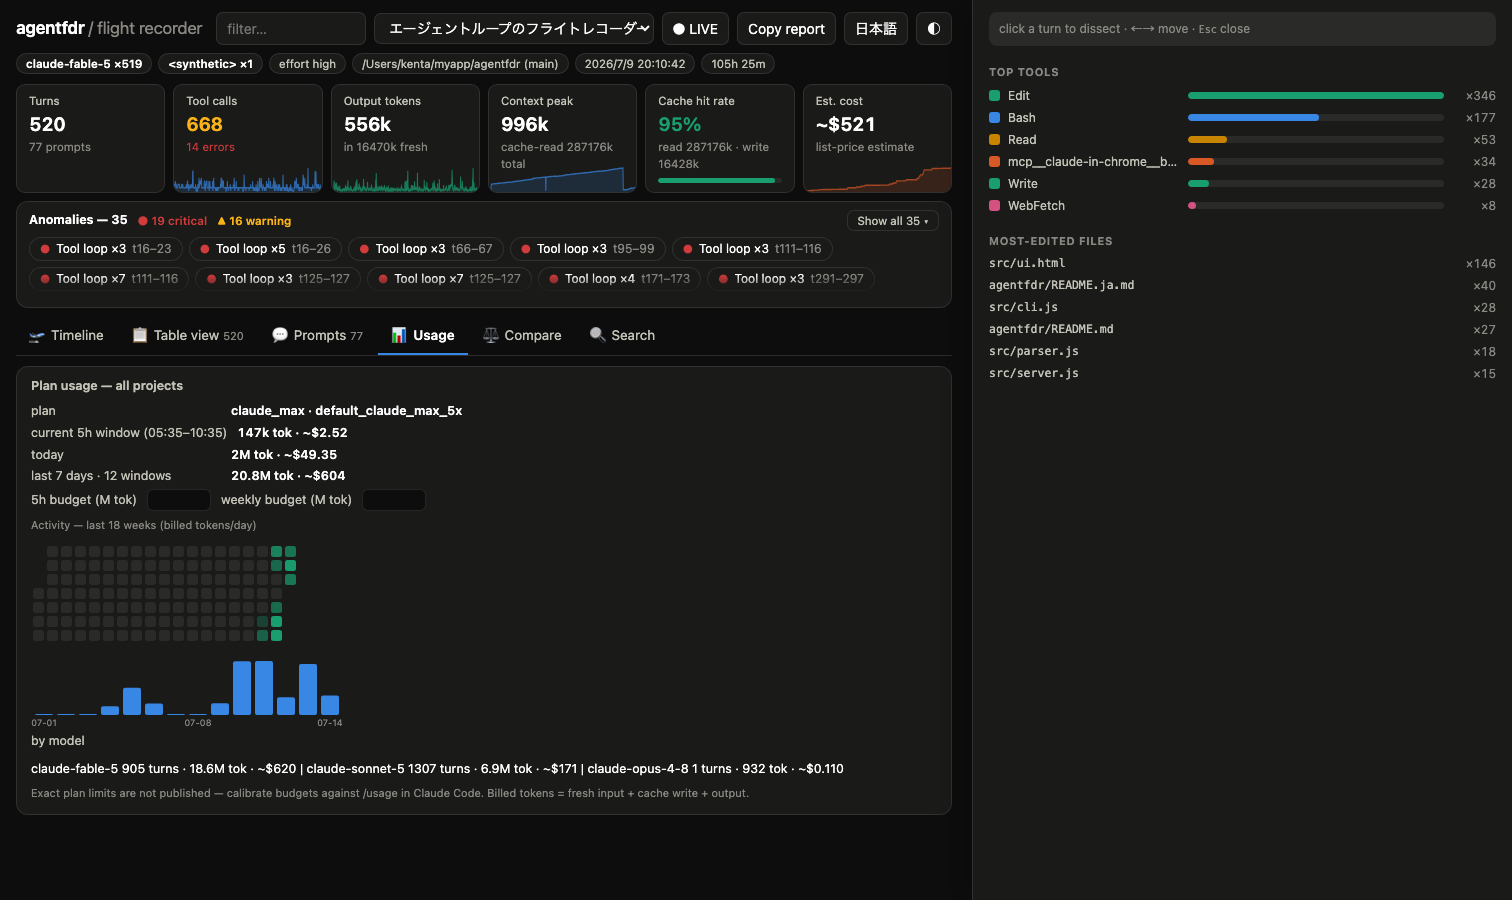
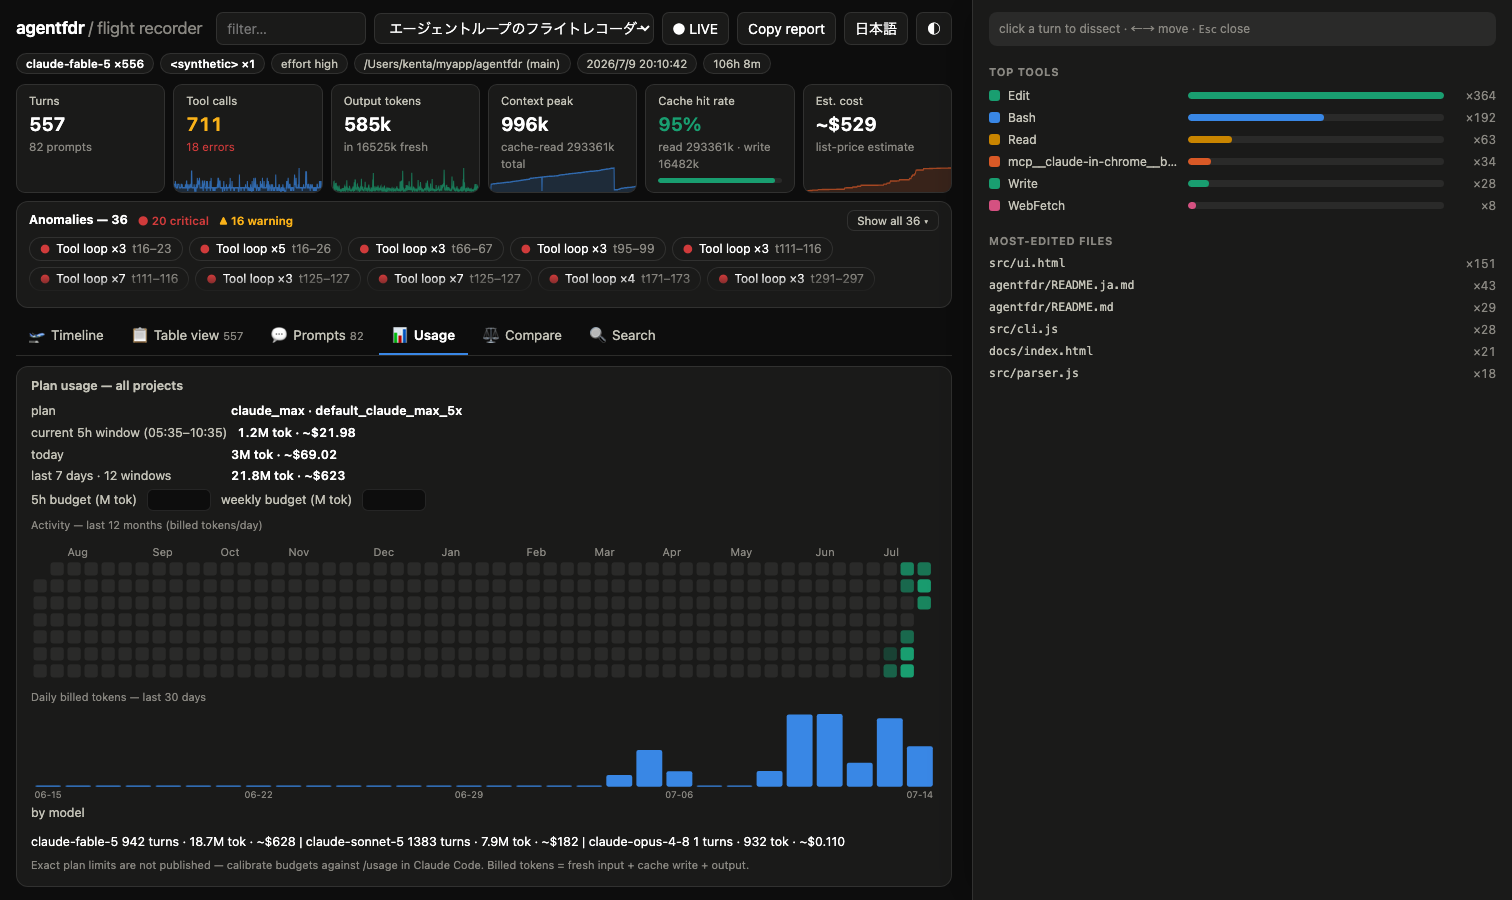
v0.4.2: promote search/diff on the LP, refresh usage docs and screenshot
- Landing page gains two feature cards — full-text search and session
  diff — and the usage section now mentions the 12-month heatmap
  (en/ja dictionaries in parity)
- README (en/ja): viewer section lists all six tabs, the header's
  session filter, and the session-overview empty state; heatmap
  references updated from 18 weeks to 12 months
- Usage screenshot retaken with the full-width charts (assets/ and
  the LP's docs/assets/ copy)

Claude-Session: https://claude.ai/code/session_01Jvh6iAeEhVPDjuBbCraAEh

diff --git a/docs/index.html b/docs/index.html
@@ -185,6 +185,8 @@
       <div class="feat"><div class="ico">📡</div><div class="t" data-i18n="f4t">Live watch mode</div><p data-i18n="f4">agentfdr watch follows a session that's still running — watch the context climb in real time.</p></div>
       <div class="feat"><div class="ico">🚦</div><div class="t" data-i18n="f5t">CI gate</div><p data-i18n="f5">agentfdr assert --no-loops --max-tokens 2M exits 1 on violation. Put a tripwire on your autonomous pipelines.</p></div>
       <div class="feat"><div class="ico">📋</div><div class="t" data-i18n="f6t">Markdown autopsy</div><p data-i18n="f6">agentfdr blame renders the whole analysis as markdown, ready to paste into an issue or a Slack thread.</p></div>
+      <div class="feat"><div class="ico">🔎</div><div class="t" data-i18n="f7t">Full-text search</div><p data-i18n="f7">agentfdr search scans every prompt, reply, tool call and result across all your sessions — and the Search tab jumps straight to the matching turn.</p></div>
+      <div class="feat"><div class="ico">⚖️</div><div class="t" data-i18n="f8t">Session diff</div><p data-i18n="f8">agentfdr diff puts the failed attempt next to the successful retry: stats, anomalies, tool mix, and which files each one touched.</p></div>
     </div>
   </section>
 
@@ -243,8 +245,10 @@ const I18N = {
     f4t: 'Live watch mode', f4: "agentfdr watch follows a session that's still running — watch the context climb in real time.",
     f5t: 'CI gate', f5: 'agentfdr assert --no-loops --max-tokens 2M exits 1 on violation. Put a tripwire on your autonomous pipelines.',
     f6t: 'Markdown autopsy', f6: 'agentfdr blame renders the whole analysis as markdown, ready to paste into an issue or a Slack thread.',
+    f7t: 'Full-text search', f7: 'agentfdr search scans every prompt, reply, tool call and result across all your sessions — and the Search tab jumps straight to the matching turn.',
+    f8t: 'Session diff', f8: 'agentfdr diff puts the failed attempt next to the successful retry: stats, anomalies, tool mix, and which files each one touched.',
     usageH: 'Know what your plan is really burning.',
-    u1: "agentfdr usage aggregates every project's transcripts into the same shape your subscription is metered in: the current 5-hour window, daily history, and the rolling week — with a per-model breakdown and estimated cost.",
+    u1: "agentfdr usage aggregates every project's transcripts into the same shape your subscription is metered in: the current 5-hour window, daily history, and the rolling week — with a 12-month activity heatmap, per-model breakdown and estimated cost.",
     u2: "Your plan tier is auto-detected. Set budgets, calibrate them once against Claude Code's /usage screen, and get warning bars before you hit the wall.",
     usageAlt: 'plan usage panel',
     cmdH: 'One command away.',
@@ -274,8 +278,10 @@ const I18N = {
     f4t: 'ライブウォッチ', f4: 'agentfdr watch が実行中のセッションを自動追尾。コンテキストが積み上がる様子をリアルタイムで。',
     f5t: 'CI ゲート', f5: 'agentfdr assert --no-loops --max-tokens 2M が違反時に exit 1。CI に組み込めば、暴走したセッションを自動で検出して止められます。',
     f6t: 'Markdown 解剖レポート', f6: 'agentfdr blame が分析結果を Markdown で出力。issue や Slack スレッドにそのまま貼れます。',
+    f7t: '全文検索', f7: 'agentfdr search が全セッションのプロンプト・応答・ツール呼び出し・結果を横断検索。ビューアの検索タブからは該当ターンへ直接ジャンプできます。',
+    f8t: 'セッション比較', f8: 'agentfdr diff が失敗した試行と成功した再試行を並べて比較。統計・異常・ツール構成・編集ファイルの違いが一目でわかります。',
     usageH: 'プランを何にどれだけ使ったか、正確に。',
-    u1: 'agentfdr usage は全プロジェクトの transcript を、サブスクリプションの計測単位と同じ形に集計します。現在の5時間ウィンドウ、日別履歴、直近7日。モデル別内訳と推定コスト付きです。',
+    u1: 'agentfdr usage は全プロジェクトの transcript を、サブスクリプションの計測単位と同じ形に集計します。現在の5時間ウィンドウ、日別履歴、直近7日。12ヶ月のアクティビティヒートマップ、モデル別内訳と推定コスト付きです。',
     u2: 'プラン種別は自動検出。予算を設定して Claude Code の /usage と一度見比べれば、上限に当たる前に警告バーが教えてくれます。',
     usageAlt: 'プラン使用量パネル',
     cmdH: 'コマンド1つで。',

diff --git a/README.ja.md b/README.ja.md
@@ -40,7 +40,7 @@ npx agentfdr
 - 🔍 **ターン解剖** — リサイズ可能なサイドパネルに usage 内訳・アシスタントの発言・各ツール呼び出しの所要時間/結果サイズ/スニペット。←/→ で移動
 - 🚨 **異常検知** — ツールループ、エラー連続、コンテキスト肥大、トークン急増、キャッシュスラッシング、同一ファイル連続編集、refusal を自動で検知してフラグ付け
 - 📡 **ライブウォッチ** — `agentfdr watch` で実行中セッションを自動追尾
-- 📊 **プラン使用量** — 5時間ウィンドウ/日別/週間の消費を全プロジェクト横断で集計。直近18週のアクティビティヒートマップ、プラン種別の自動検出、予算設定で消費率を警告バー表示
+- 📊 **プラン使用量** — 5時間ウィンドウ/日別/週間の消費を全プロジェクト横断で集計。直近12ヶ月のアクティビティヒートマップ、プラン種別の自動検出、予算設定で消費率を警告バー表示
 - 💸 **コスト推定** — セッション別・モデル別の推定 USD(定価ベース)
 - 🚦 **CI ゲート** — `agentfdr assert --no-loops --max-tokens 2M` が違反時に exit 1
 - 📋 **Markdown 解剖レポート** — `agentfdr blame` の出力を issue にそのまま貼れる
@@ -82,9 +82,9 @@ agentfdr assert --no-loops --max-tokens 2M   # CI ゲート: 違反で exit 1
 
 ## ビューア
 
-画面右に**解剖パネル**が常駐します(広い画面では常時表示、狭い画面ではスライドイン)。ターンをクリックすると内容が表示され、タイムラインが見えたまま **←/→** でターンを次々に調べられます(**Esc** で選択解除)。パネルの左端をドラッグすると幅を変更でき、設定は記憶されます。
+画面右に**解剖パネル**が常駐します(広い画面では常時表示、狭い画面ではスライドイン)。ターンをクリックすると内容が表示され、タイムラインが見えたまま **←/→** でターンを次々に調べられます(**Esc** で選択解除)。パネルの左端をドラッグすると幅を変更でき、設定は記憶されます。ターン未選択のあいだは**セッション概要**(よく使われたツールと編集回数の多いファイル)が表示されます。
 
-メインビューはタブで切替: **タイムライン / テーブル表示 / プロンプト / 使用量**。プロンプトの行や異常チップをクリックすると、タイムラインの該当ターンへ自動でジャンプします。凡例のツール色をクリックするとツールレーンを絞り込み。**レポートをコピー** で blame の Markdown をクリップボードへ、**● LIVE** で実行中セッションを自動更新(`agentfdr watch` なら最初からオン)。言語・テーマはヘッダーで切替でき、表示状態は URL で共有できます(`?theme=dark&tab=usage&sel=95`)。
+メインビューはタブで切替: **タイムライン / テーブル表示 / プロンプト / 使用量 / 比較 / 検索**。プロンプトの行・異常チップ・検索結果をクリックすると、タイムラインの該当ターンへ自動でジャンプします。ヘッダーの絞り込みボックスで、全プロジェクト横断でセッション一覧を絞り込めます。凡例のツール色をクリックするとツールレーンを絞り込み。**レポートをコピー** で blame の Markdown をクリップボードへ、**● LIVE** で実行中セッションを自動更新(`agentfdr watch` なら最初からオン)。言語・テーマはヘッダーで切替でき、表示状態は URL で共有できます(`?theme=dark&tab=usage&sel=95`)。
 
 **セッション情報** — ヘッダー行に、ターンを生成した全モデル(セッション途中でモデルを切り替えた場合はモデルごとのターン数付き)、fast モードのターン数、effort レベルを表示します。effort に関する注意: transcript の構造化フィールドには記録されていないため、`/effort` コマンドの出力から復元しています。セッション中に設定を変更した場合のみ表示されます。
 

diff --git a/README.md b/README.md
@@ -40,7 +40,7 @@ That's the whole setup. Your sessions are already recorded — Claude Code write
 - 🔍 **Turn dissection** — resizable side panel with usage breakdown, assistant text, and every tool call's duration, result size, and snippet; step with ←/→
 - 🚨 **Anomaly detection** — tool loops, error streaks, context bloat, token spikes, cache thrash, file churn, and refusals, flagged automatically
 - 📡 **Live watch mode** — `agentfdr watch` follows a session that's still running
-- 📊 **Plan usage** — 5-hour window / daily / weekly burn across all projects, an 18-week activity heatmap, plan-tier auto-detection, and calibratable budgets with warning bars
+- 📊 **Plan usage** — 5-hour window / daily / weekly burn across all projects, a 12-month activity heatmap, plan-tier auto-detection, and calibratable budgets with warning bars
 - 💸 **Cost estimation** — estimated USD per session and per model, from list prices
 - 🚦 **CI gate** — `agentfdr assert --no-loops --max-tokens 2M` exits 1 on violation
 - 📋 **Markdown autopsy** — `agentfdr blame` renders the analysis ready to paste into an issue
@@ -82,9 +82,9 @@ Options: `--port <n>` (auto-falls-back if taken), `--no-browser`, `--json`, `--l
 
 ## The viewer
 
-The **dissection panel** lives on the right (always visible on wide screens; slides in on narrow ones) — click a turn and it fills in, and the timeline stays visible so you can step through turns (**←/→**, **Esc** deselects) without losing your place. Drag the panel's left edge to resize it; the width persists.
+The **dissection panel** lives on the right (always visible on wide screens; slides in on narrow ones) — click a turn and it fills in, and the timeline stays visible so you can step through turns (**←/→**, **Esc** deselects) without losing your place. Drag the panel's left edge to resize it; the width persists. While no turn is selected, the panel shows a **session overview**: the tools that did the work and the most-edited files.
 
-Tabs switch the main view: **Timeline / Turns / Prompts / Usage**; clicking a prompt or an anomaly chip jumps back to the timeline at that turn. Click a tool color in the legend to filter the tools lane. **Copy report** puts the blame markdown on your clipboard; **● LIVE** re-fetches while the session is still running (on automatically via `agentfdr watch`). Language and theme toggles are in the header; everything persists, and any view is deep-linkable (`?theme=dark&tab=usage&sel=95`).
+Tabs switch the main view: **Timeline / Turns / Prompts / Usage / Compare / Search**; clicking a prompt, an anomaly chip, or a search hit jumps back to the timeline at that turn. The filter box in the header narrows the session dropdown across all projects. Click a tool color in the legend to filter the tools lane. **Copy report** puts the blame markdown on your clipboard; **● LIVE** re-fetches while the session is still running (on automatically via `agentfdr watch`). Language and theme toggles are in the header; everything persists, and any view is deep-linkable (`?theme=dark&tab=usage&sel=95`).
 
 **Session readout** — the header line lists every model that produced a turn (with per-model turn counts when the session switched models), the number of fast-mode turns, and the effort level. A caveat on effort: it is not a structured field in the transcript, so it's recovered from `/effort` command output and only appears when the level was set during the session.
 